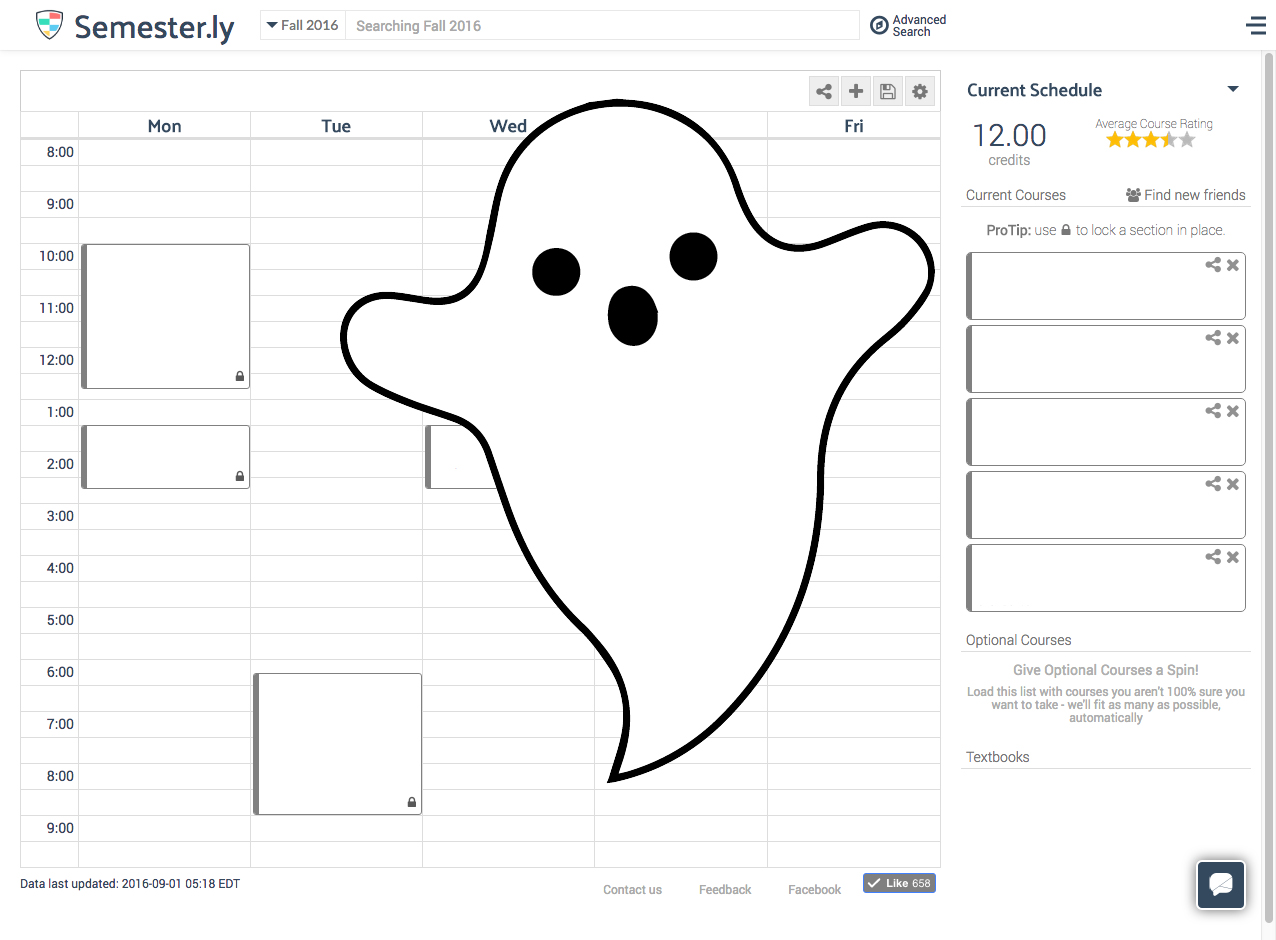
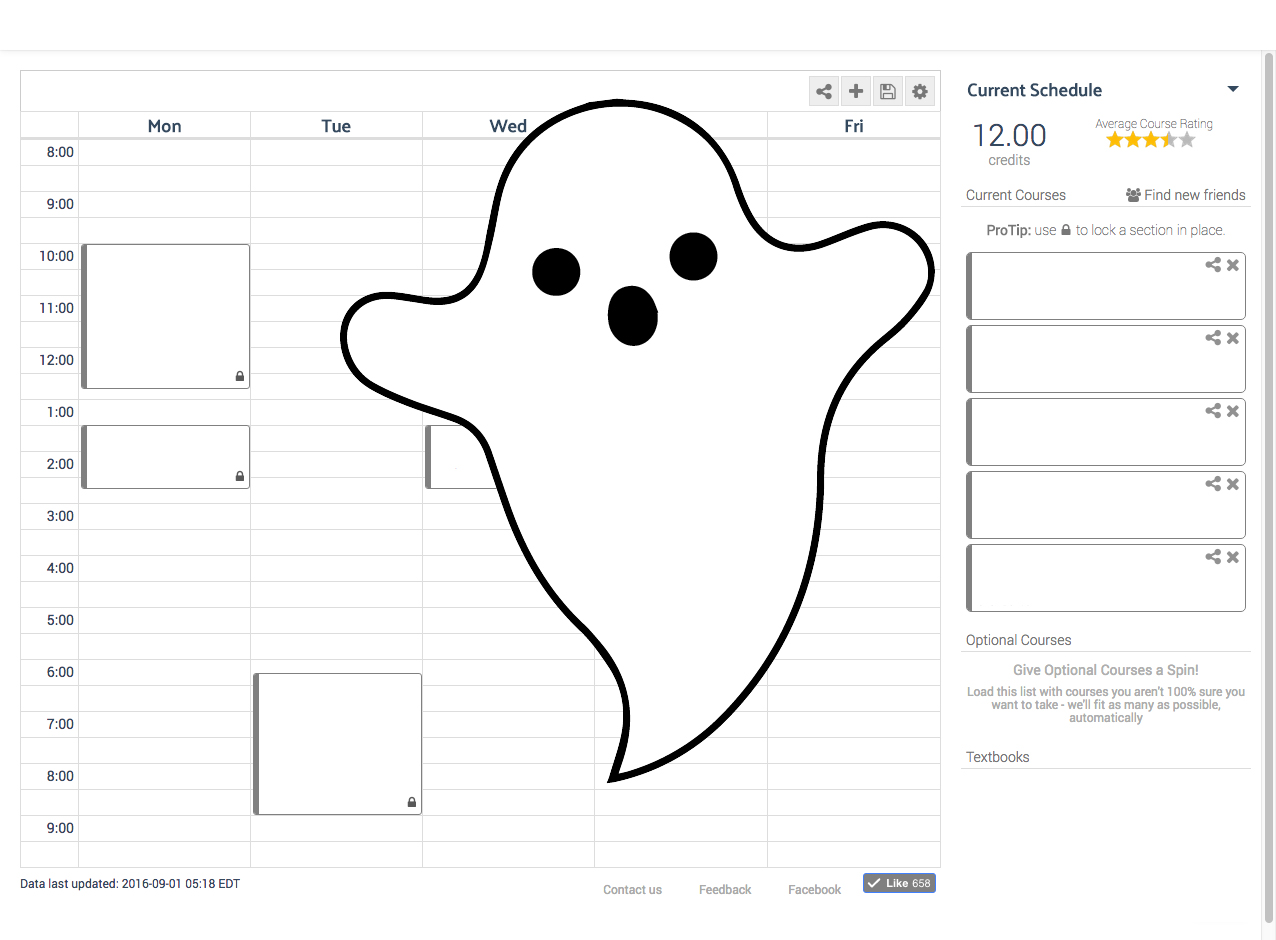
ghost attempt at 404 page, will change ##169

diff --git a/timetable/templates/404.html b/timetable/templates/404.html
@@ -39,15 +39,38 @@
 	    </script>
 	</head>
 	<body>
-		<header class="down">
+		<header>
 			<div class="grid cf">
-				<img id="semesterly-logo" src="/static/img/logo2.0-32x32.png">
-				<h1>Semester.ly</h1>
+				<a href="/">
+					<span id="logo"></span>
+					<h1>Semester.ly</h1>
+				</a>
+				<!-- <div id="social">
+					<div id="social-card">
+						<div id="social-pro-pic" style="background-image: url();"></div>
+						<h2>Max</h2>
+						<span class="tip-down"></span>
+					</div>
+					<div id="social-dropdown">
+						<div class="tip-border"></div>
+						<div class="tip"></div>
+						<a href="/user/logout">
+							<i class="fa fa-sign-out"></i>
+							<span>Sign out</span>
+						</a>
+					</div>
+					<a id="social-login" href="/login/facebook">
+						<h2>Signup/Login <i className="fa fa-facebook-square"></i></h2>
+					</a>
+				</div> -->
 			</div>
 		</header>
 		
-		<div id="404">
-			
+		<div id="error-404">
+			<div id="error-404-center">
+				<h2>404</h2>
+				<h3>Page Not Found.<br> Go back to <a href="/">Semester.ly</a></h3>
+			</div>
 		</div>
 
       	<script type="text/javascript" src="https://cdnjs.cloudflare.com/ajax/libs/jquery/2.1.4/jquery.min.js"></script>

diff --git a/static/css/unsubscribe.css b/static/css/unsubscribe.css
@@ -1,18 +1,38 @@
-#unsubscribe {
+#unsubscribe,
+#error-404-center {
 	text-align: center;
 	position: absolute;
 	width: 100%;
 	top: 45%;
 	transform: translateY(-50%);
 }
-#unsubscribe h2 {
+#unsubscribe h2,
+#error-404 h2 {
 	font-size: 32px;
 	line-height: 32px;
 	color: #aaa;
 	font-family: "Palanquin",Arial,sans-serif;
 	margin: 20px auto 0px;
 }
-#unsubscribe h3 {
+#unsubscribe h3,
+#error-404 h3 {
 	margin: 20px auto auto;
 	font-size: 14px;
+}
+
+#error-404 {
+	position: absolute;
+	top: 50px;
+	bottom: 50px;
+	left: 50px;
+	right: 50px;
+	background-image: url(/static/img/emptystates/404.jpg);
+	background-size: contain;
+	background-position: center;
+	background-repeat: no-repeat;
+}
+#error-404 h2 {
+	font-size: 56px;
+	line-height: 56px;
+	color: #d11515;
 }
